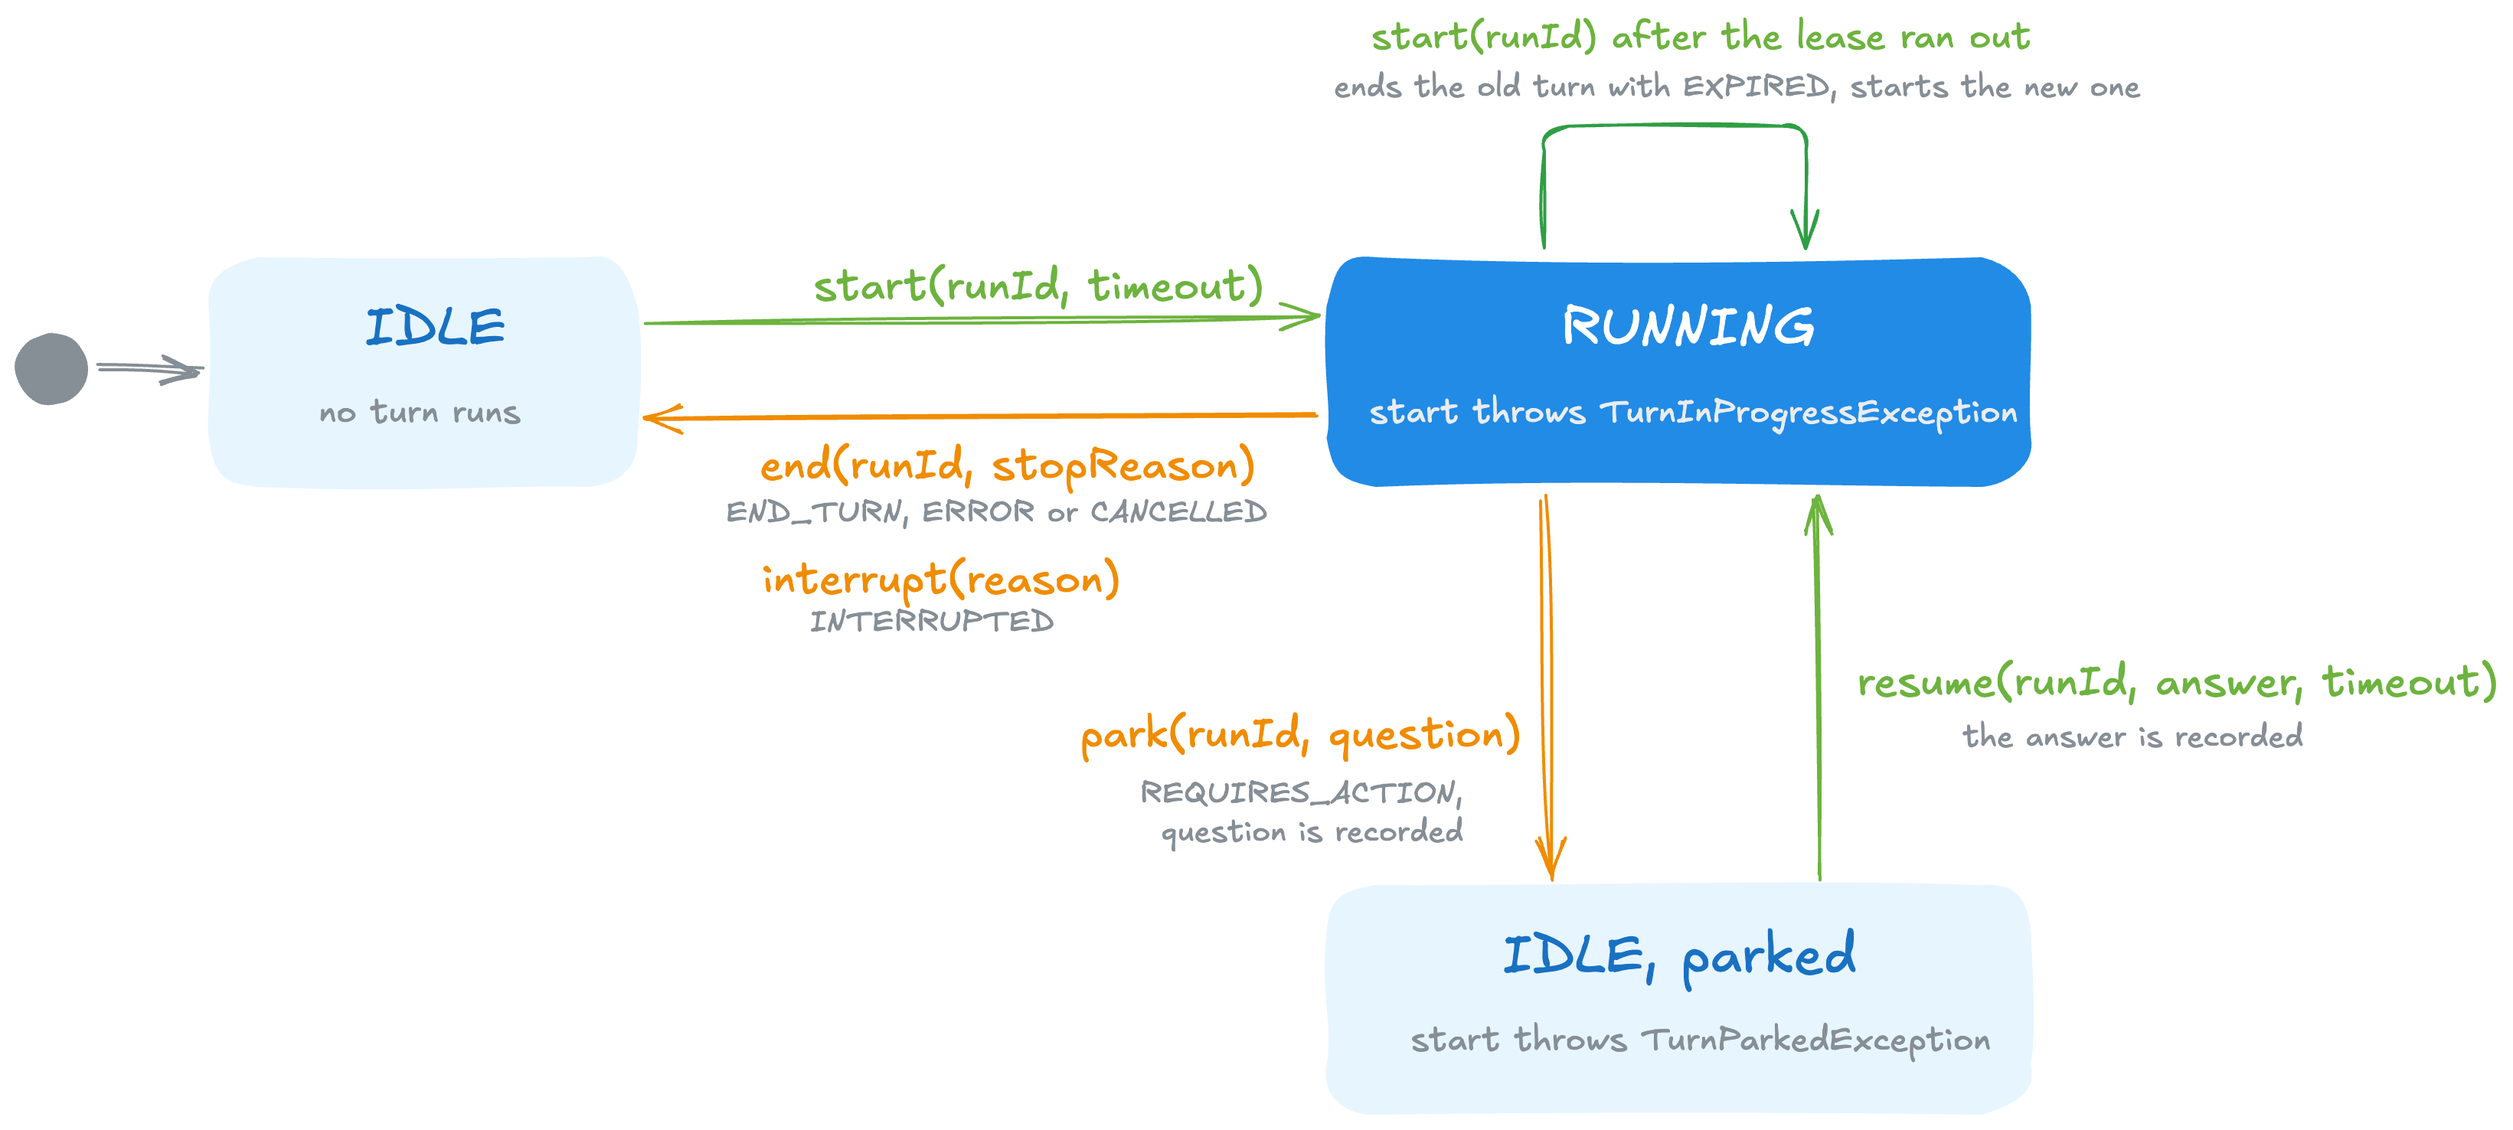
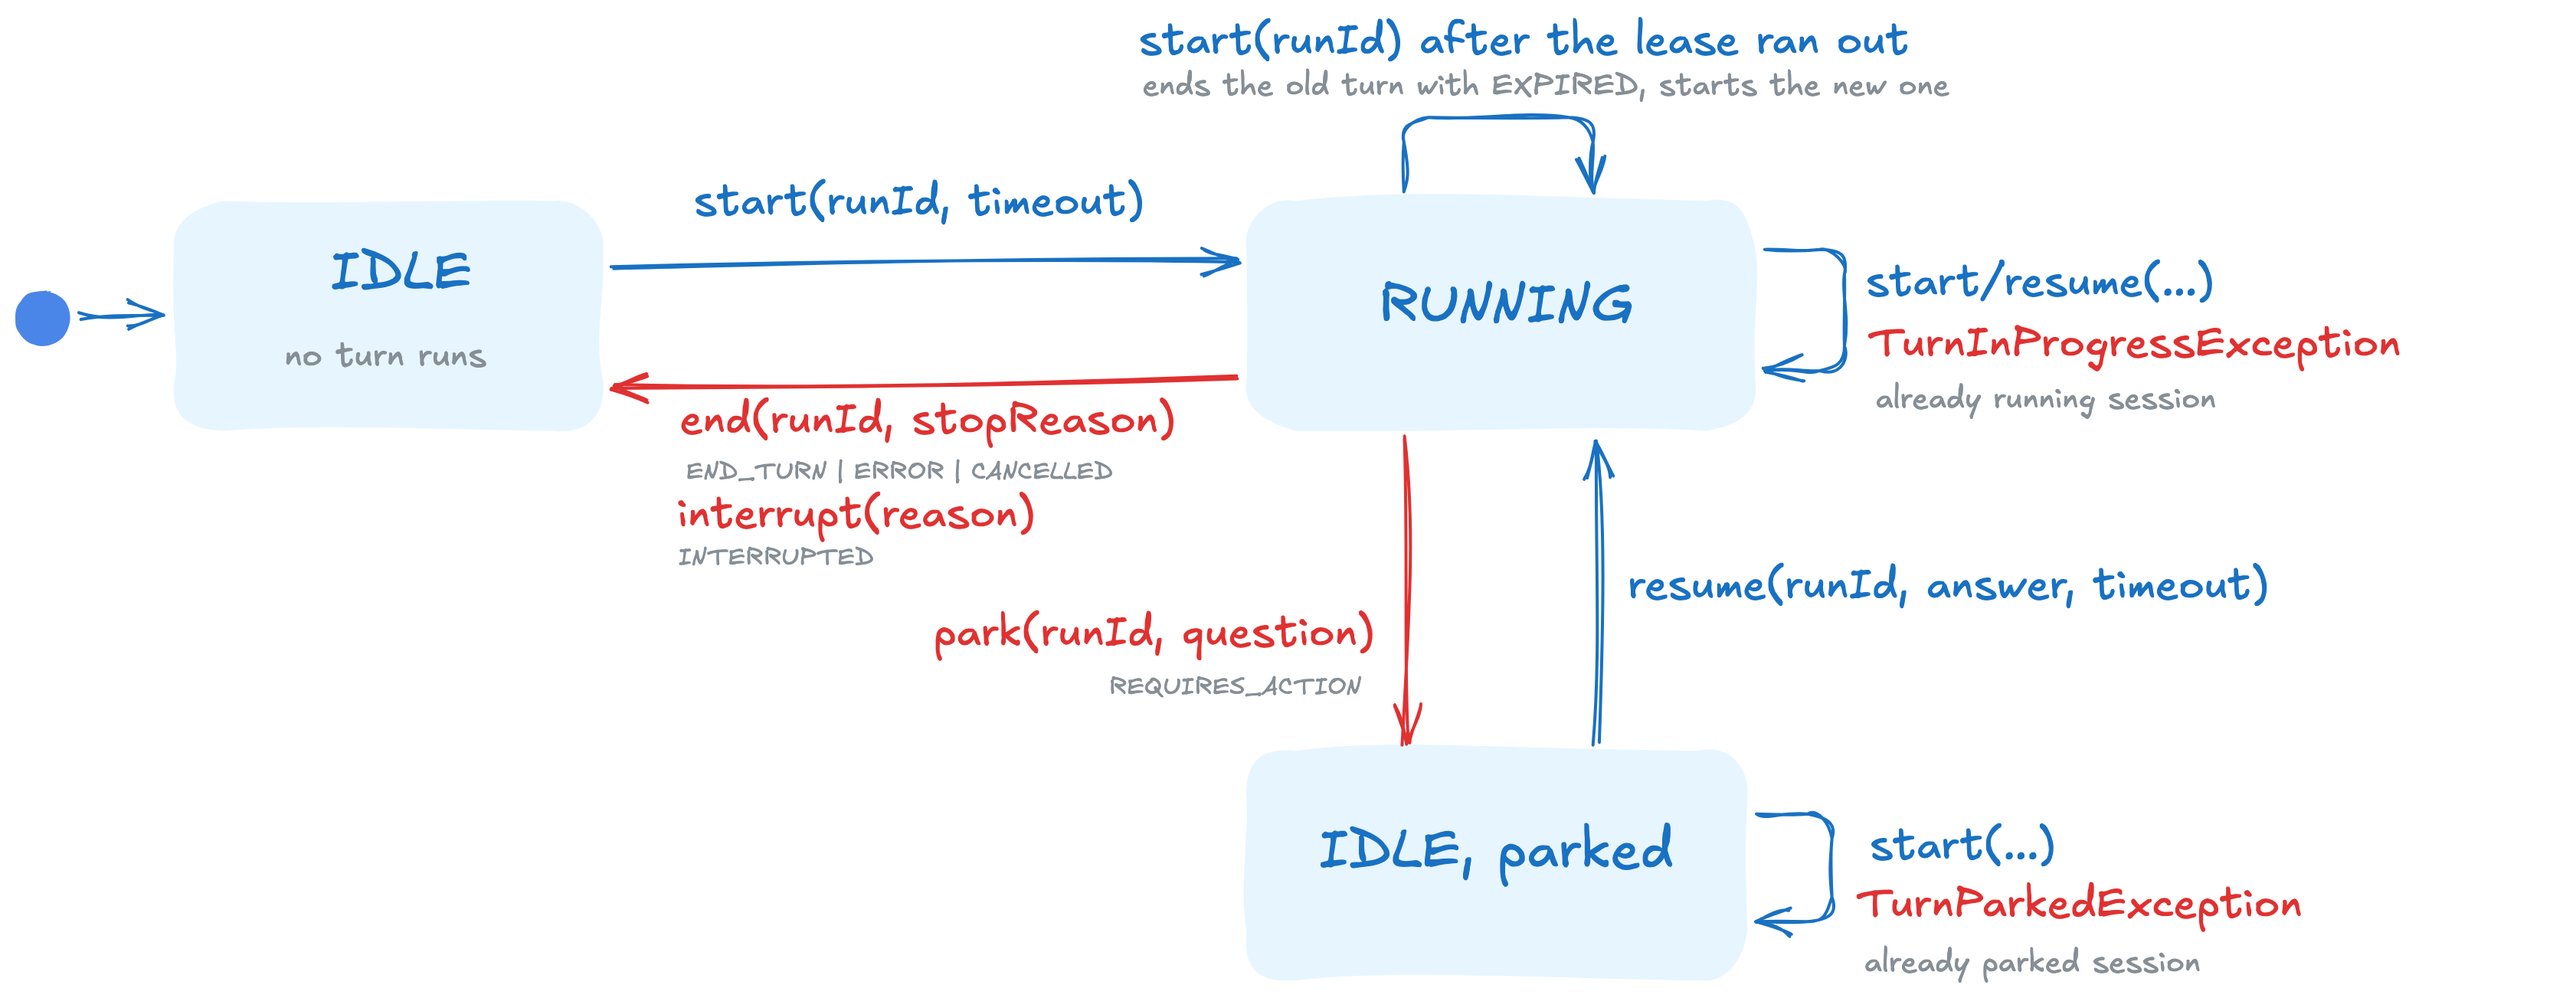
Keep the two Excalidraw pictures editable from their PNGs
The turn status diagram and the advisor nesting picture are now drawn in Excalidraw. Each PNG embeds its scene, so the PNG is its own source: open it in Excalidraw, edit it, and export it again over the same file. The README says so instead of describing the headless Chrome render. The PlantUML state diagram and its SVG, and the hand-made advisors SVG, are no longer shown on any page and are removed.

diff --git a/spring-ai-docs/src/main/diagrams/session/README.md b/spring-ai-docs/src/main/diagrams/session/README.md
@@ -9,9 +9,6 @@ java -jar plantuml.jar -tsvg -o ../../antora/modules/ROOT/images/session *.puml
 
 The class and state diagrams use the built-in `smetana` layout engine, so Graphviz is not needed.
 
-`spring-ai-session-advisors.svg` is the hand-made source of the advisor nesting picture, `spring-ai-session-advisors.png` on the ChatClient page; render it with a browser at 1200 x 700, headless Chrome for example:
-
-```
-"/Applications/Google Chrome.app/Contents/MacOS/Google Chrome" --headless=new --hide-scrollbars --window-size=1200,700 \
-  --screenshot=../../antora/modules/ROOT/images/session/spring-ai-session-advisors.png "file://$PWD/spring-ai-session-advisors.svg"
-```
+Two pictures are drawn in [Excalidraw](https://excalidraw.com) instead, and have no file here: `session-status-state.png` on the Turn Status page and `spring-ai-session-advisors.png` on the ChatClient page.
+Each PNG embeds its own scene, so it is its own source.
+To change one, open the PNG in Excalidraw, edit it, and export it again over the same file with "Embed scene" ticked.
